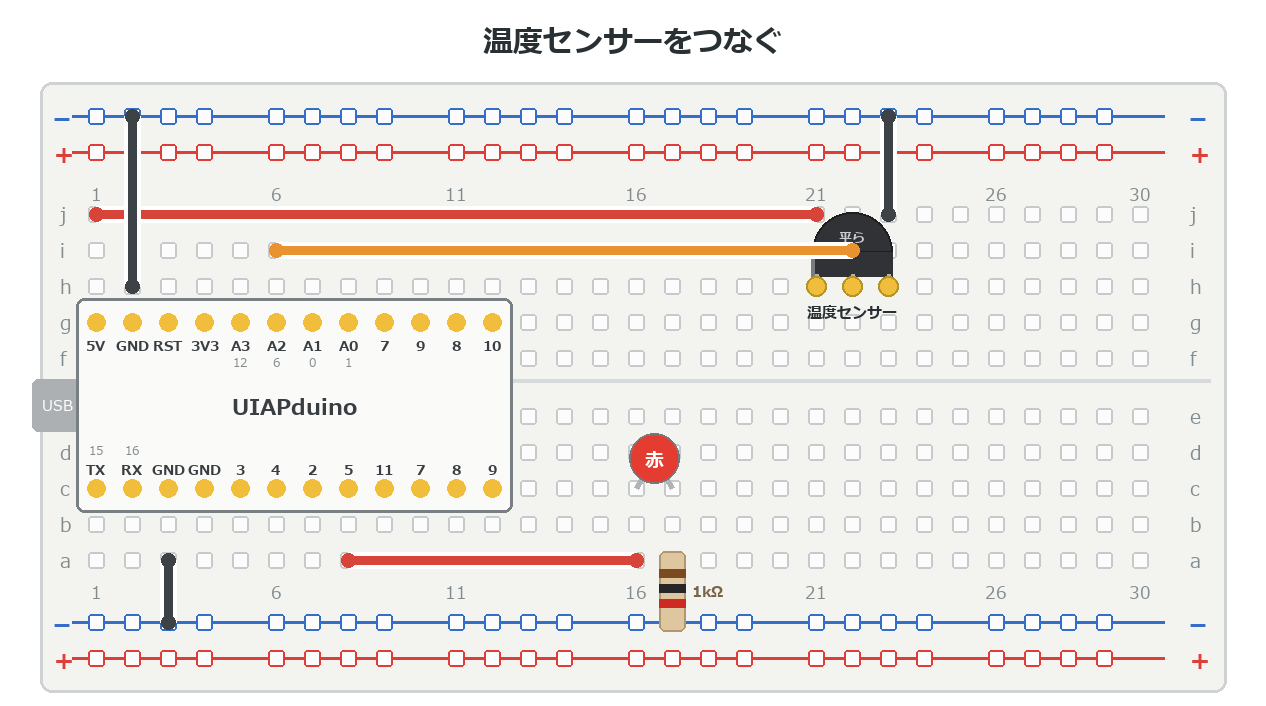
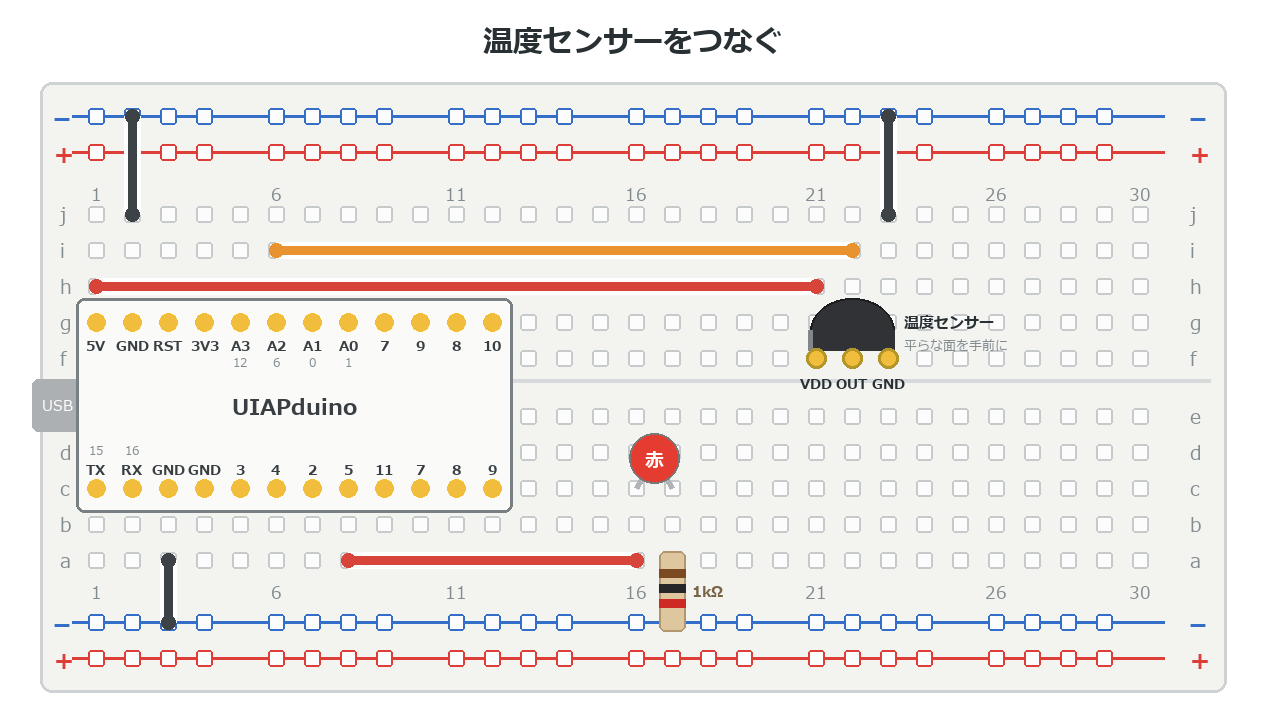
e2 の配線図を e1 と同じ形に直し、端子名を図に入れた
e1 と同じ問題があった。センサーを h行 に置いていたため本体が配線に重なり、
GND の線も 5V の線をまたいでいた。

- センサーを f行 に移した
- 5V  … h行（1〜21列）
- A2  … i行（6〜22列）
- GND … 23列の j行 から 上の −レールへ
- マイコンの GND … 2列の j行 から 上の −レールへ

いちばん上の j行 から レールへ立ち上げる形にそろえたので、交差がない。

あわせて:
- TO-92 の本体を小さくし、h行 の配線にかからないようにした
- **VDD・OUT・GND** の端子名を足に添えた。
  これまで本文の「左から VDD・OUT・GND」だけが頼りだった
- 「平らな面を手前に」を本体の右に出した

Changed region(s): [[0.0616, 0.2805, 0.8009, 0.5609]]

diff --git a/tools/bb.py b/tools/bb.py
@@ -232,21 +232,22 @@ def lead(d, x1, y1, a, col, w=8):
     d.line(pts, fill=col, width=w, joint="curve")
     d.ellipse([x2 - 7, y2 - 7, x2 + 7, y2 + 7], fill=col)
 
-def to92(d, col, row, name="温度センサー"):
+def to92(d, col, row, labels=("VDD", "OUT", "GND"), name="温度センサー"):
     """TO-92 の部品（温度センサー）。足は3本、となりあう3列。片面が平ら。"""
     x1, x3, y = cx(col), cx(col + 2), cy(row)
     mx = (x1 + x3) / 2
-    d.pieslice([mx - 40, y - 74, mx + 40, y + 6], 180, 360,
+    d.pieslice([mx - 42, y - 60, mx + 42, y + 6], 180, 360,
                fill=(48, 50, 54), outline=(28, 30, 32), width=2)
-    d.rectangle([mx - 40, y - 34, mx + 40, y - 10], fill=(48, 50, 54))
-    d.line([mx - 40, y - 34, mx - 40, y - 10], fill=(120, 124, 128), width=4)
-    center(d, mx, y - 58, "平ら", bold(13), (200, 204, 208))
-    for i in range(3):
+    d.rectangle([mx - 42, y - 28, mx + 42, y - 8], fill=(48, 50, 54))
+    d.line([mx - 42, y - 28, mx - 42, y - 8], fill=(130, 134, 138), width=5)
+    d.text((mx + 52, y - 46), name, font=bold(15), fill=INK)
+    d.text((mx + 52, y - 22), "平らな面を手前に", font=reg(13), fill=GRAY)
+    for i, lab in enumerate(labels):
         x = cx(col + i)
-        d.line([x, y - 12, x, y], fill=(176, 180, 182), width=4)
+        d.line([x, y - 10, x, y], fill=(176, 180, 182), width=4)
         d.ellipse([x - 10, y - 10, x + 10, y + 10], fill=GOLD,
-                  outline=(180, 150, 40), width=2)
-    center(d, mx, y + 16, name, bold(15), INK)
+                  outline=(180, 150, 40), width=3)
+        center(d, x, y + 16, lab, bold(14), INK)
 
 def cds(d, col, row):
     """CdS（光センサー）。足は2本、となりあう2列。向きはない。"""
